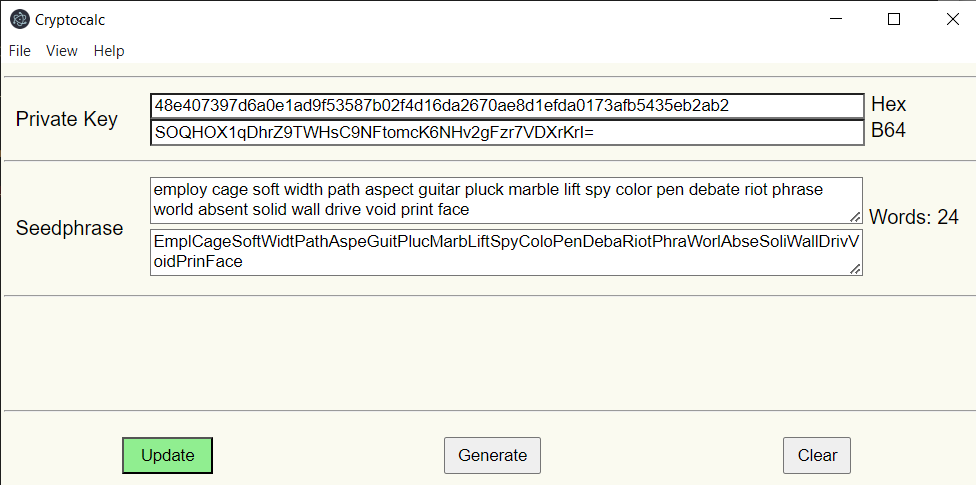
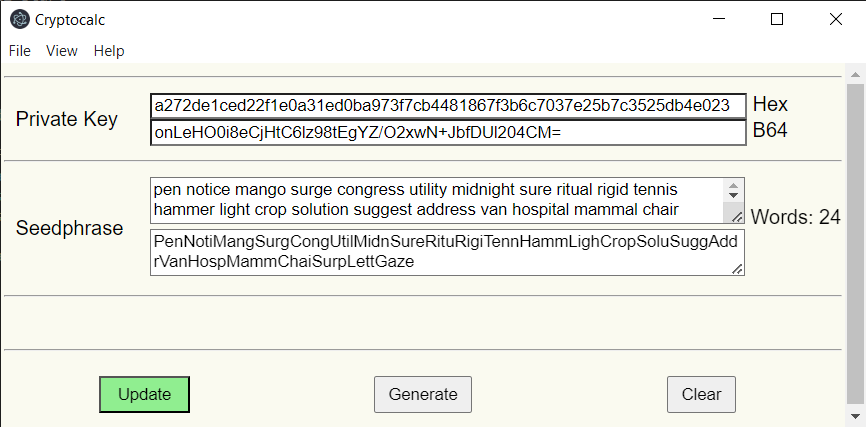
0.0.12: allows input of the hex value for the Private Key, also adds a Screenshot in README.md

diff --git a/README.md b/README.md
@@ -1,4 +1,5 @@
-## Cryptocalc User Guide
+## Cryptocalc User Guide 0.0.12
+![](https://github.com/ALADAS-org/Cryptocalc/blob/master/_doc/Screenshots/v0_0_9.png)
 1. Purpose\
    _Cryptocalc_ is a standalone desktop application which provides straigthforward
    conversion between a _Private Key_ formats (eg. hex vs Base64) and the matching _Seedphrase_
@@ -23,5 +24,14 @@
         * Type `cd Cryptocalc`	
         * Type `npm install`		
 		
-3. Use\
+4. Use\
    Double click on `_run.bat`: this will open the _Cryptocalc_ desktop standalone application
+    + 3.1. Features:
+		* Generate a Random _Private Key_:\
+		Use [ Generate ] button to generate a random 32 bytes hex value for the _Private Key_,
+		this value is than coverted in Base64 and then transformed in its equivalent _Seedphrase_ 
+        as well as the _Shortened Seedphrase_ (only The 4 first letters of each mnemonic with
+        the first letter in Uppercase as a mean to separate the mnemonics) 
+        * Input a hex value for the _Private Key_:\
+		Modify or replace the hex value (nb: should have 64 hex digits) then use the [ Update ]
+        button to propagate to Base64 value, Seedphrase and "shortened" Seedphrase.     		
